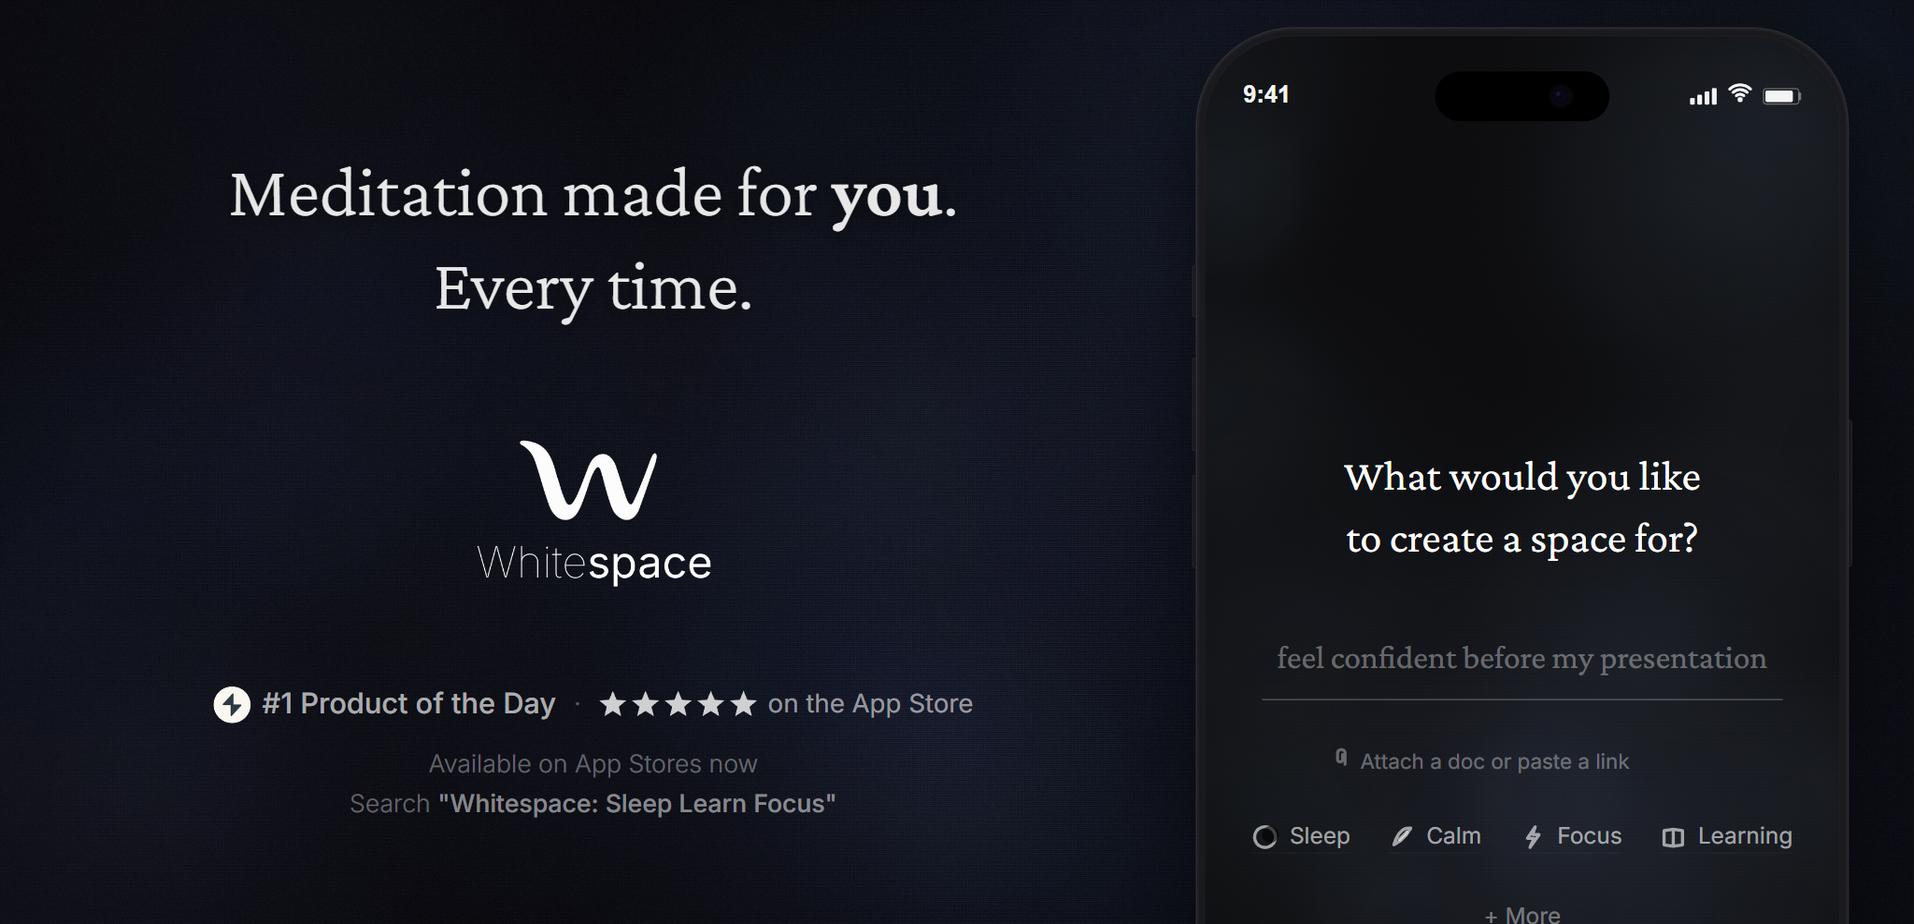
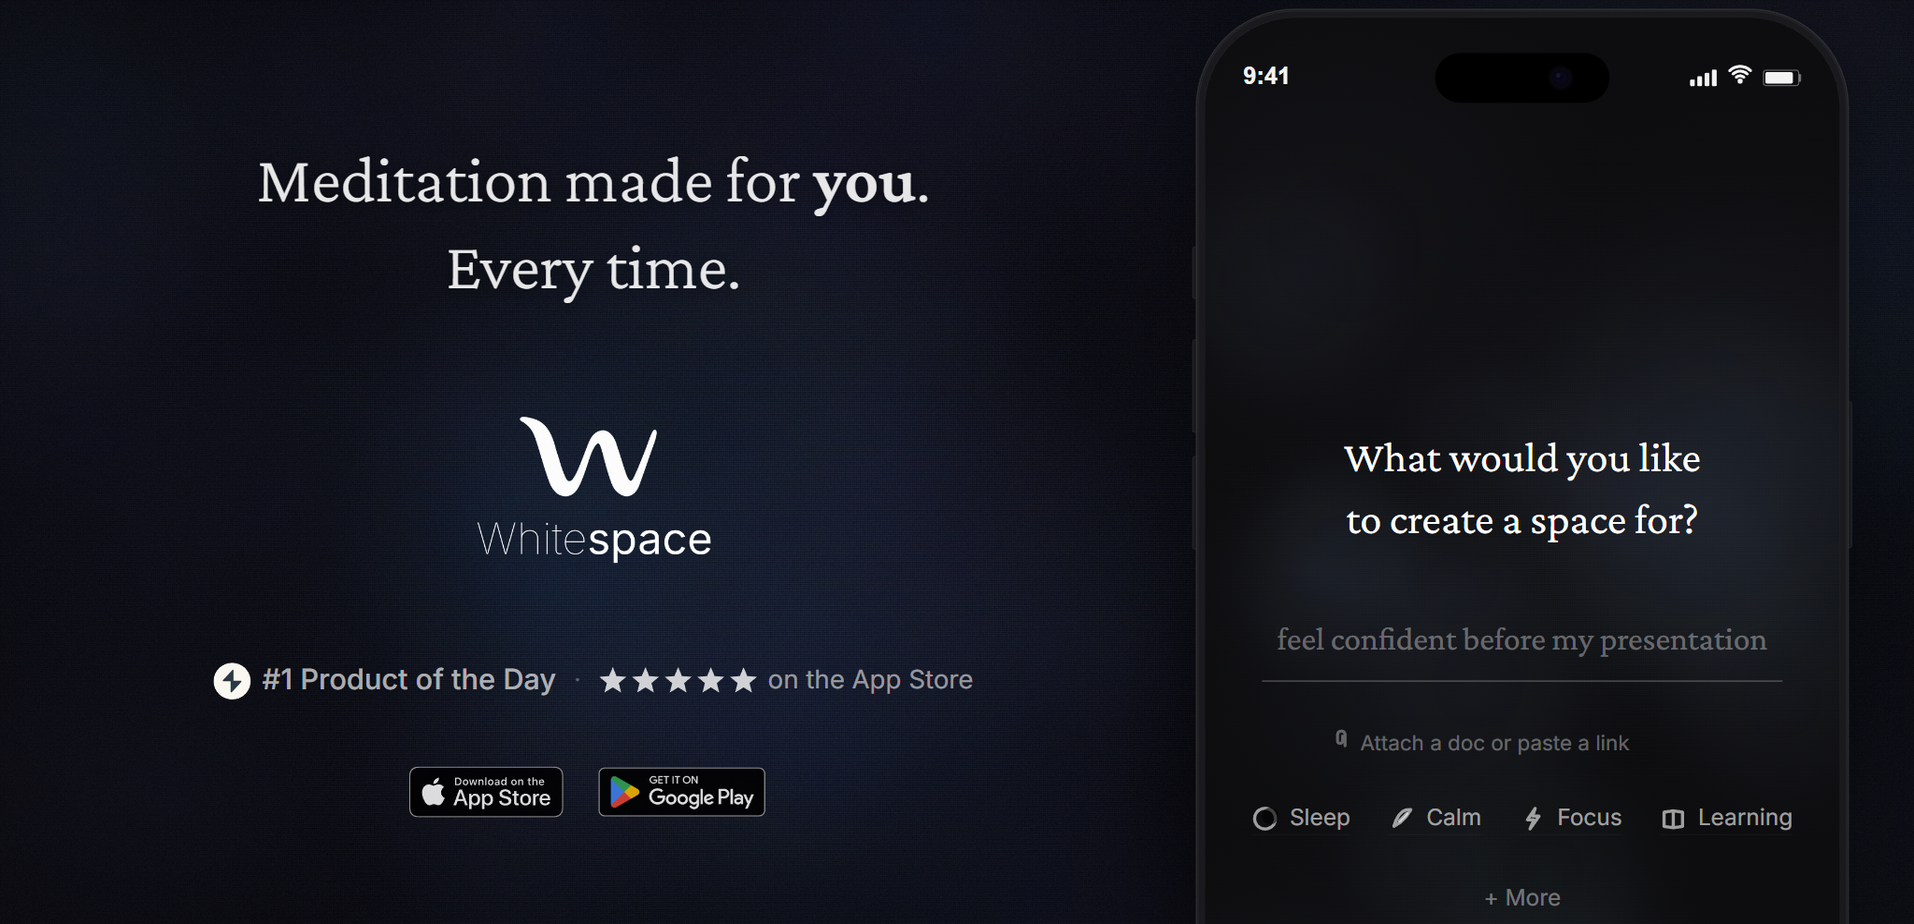
preview 2

diff --git a/screenshot-generator.html b/screenshot-generator.html
@@ -689,13 +689,13 @@
                     </div>
                     <div class="form-group">
                         <label for="feature-text-y">Text Y Position</label>
-                        <input type="range" id="feature-text-y" min="10" max="60" step="1" value="17">
-                        <div class="slider-labels"><span>Top</span><span id="feature-text-y-value">17%</span><span>Bottom</span></div>
+                        <input type="range" id="feature-text-y" min="10" max="60" step="1" value="16">
+                        <div class="slider-labels"><span>Top</span><span id="feature-text-y-value">16%</span><span>Bottom</span></div>
                     </div>
                     <div class="form-group">
                         <label for="feature-text-size">Text Size</label>
-                        <input type="range" id="feature-text-size" min="40" max="120" step="2" value="78">
-                        <div class="slider-labels"><span>Small</span><span id="feature-text-size-value">78px</span><span>Large</span></div>
+                        <input type="range" id="feature-text-size" min="40" max="120" step="2" value="72">
+                        <div class="slider-labels"><span>Small</span><span id="feature-text-size-value">72px</span><span>Large</span></div>
                     </div>
                     <div class="form-group">
                         <label for="feature-phone-x">Phone X Position</label>
@@ -704,8 +704,8 @@
                     </div>
                     <div class="form-group">
                         <label for="feature-phone-y">Phone Y Position</label>
-                        <input type="range" id="feature-phone-y" min="-20" max="40" step="1" value="3">
-                        <div class="slider-labels"><span>Up</span><span id="feature-phone-y-value">3%</span><span>Down</span></div>
+                        <input type="range" id="feature-phone-y" min="-20" max="40" step="1" value="1">
+                        <div class="slider-labels"><span>Up</span><span id="feature-phone-y-value">1%</span><span>Down</span></div>
                     </div>
                     <div class="form-group">
                         <label for="feature-phone-height">Phone Height</label>
@@ -1397,10 +1397,10 @@ for yourself to *focus*</textarea>
             splitPhoneAngle: 38, // rotation angle for split layouts
             // Feature graphic positioning
             featureTextX: 31,      // percentage from left
-            featureTextY: 17,      // percentage from top
-            featureTextSize: 78,   // font size in pixels
+            featureTextY: 16,      // percentage from top
+            featureTextSize: 72,   // font size in pixels
             featurePhoneX: 72,     // percentage from left
-            featurePhoneY: 3,      // percentage from top
+            featurePhoneY: 1,      // percentage from top
             featurePhoneHeight: 800, // phone height in pixels
             // Promo banner wide positioning (3:1 ratio)
             promoTextX: 20,        // percentage from left (more left for wider canvas)
@@ -1428,7 +1428,9 @@ for yourself to *focus*</textarea>
             badgeY: 85,   // percentage of canvas height
             badgeScale: 1.0,
             badgeGlow: 1.0, // 0 = off, 1 = default, 2 = strong
-            badgeLogo: null // Uneed logo image
+            badgeLogo: null, // Uneed logo image
+            appleBadge: null, // Apple App Store badge
+            googleBadge: null // Google Play badge
         };
 
         // Layout options matching App Store screenshot styles
@@ -4720,40 +4722,40 @@ for yourself to *focus*</textarea>
                     ctx.restore();
                 }
                 
-                // === "Available on App Stores now" text below badges ===
+                // === App Store badges below the reviews row ===
                 {
-                    const liveFontSize = state.width * 0.013;
-                    const lineGap = liveFontSize * 1.6;
-                    const liveY = logoBottomY + state.height * 0.035 + state.width * 0.015 * 1.8 + state.height * 0.03;
+                    // Position badges below the 5-star/POTD row with breathing room
+                    const badgeRowY = logoBottomY + state.height * 0.035 + state.width * 0.015 * 1.8 + state.height * 0.045;
+                    
+                    // Apple badge sizing (base reference)
+                    const appleBadgeHeight = state.height * 0.055;
+                    // Google badge is 1.44x taller to compensate for internal padding (matches landing page ratio)
+                    const googleBadgeHeight = appleBadgeHeight * 1.44;
+                    const badgeGap = state.width * 0.012;
                     
                     ctx.save();
-                    ctx.textBaseline = 'middle';
-                    ctx.textAlign = 'center';
+                    ctx.globalAlpha = 0.85;
                     
-                    // Line 1: "Available on App Stores now"
-                    ctx.font = `300 ${liveFontSize}px Inter, system-ui, sans-serif`;
-                    ctx.fillStyle = 'rgba(255, 255, 255, 0.35)';
-                    ctx.fillText('Available on App Stores now', logoCenterX, liveY);
-                    
-                    // Line 2: Search "Whitespace: Sleep Learn Focus"
-                    ctx.font = `300 ${liveFontSize}px Inter, system-ui, sans-serif`;
-                    const searchLabel = 'Search ';
-                    const appName = '"Whitespace: Sleep Learn Focus"';
-                    const searchWidth = ctx.measureText(searchLabel).width;
-                    ctx.font = `500 ${liveFontSize}px Inter, system-ui, sans-serif`;
-                    const appNameWidth = ctx.measureText(appName).width;
-                    const totalLine2 = searchWidth + appNameWidth;
-                    let x2 = logoCenterX - totalLine2 / 2;
-                    
-                    ctx.font = `300 ${liveFontSize}px Inter, system-ui, sans-serif`;
-                    ctx.fillStyle = 'rgba(255, 255, 255, 0.35)';
-                    ctx.textAlign = 'left';
-                    ctx.fillText(searchLabel, x2, liveY + lineGap);
-                    x2 += searchWidth;
-                    
-                    ctx.font = `500 ${liveFontSize}px Inter, system-ui, sans-serif`;
-                    ctx.fillStyle = 'rgba(255, 255, 255, 0.5)';
-                    ctx.fillText(appName, x2, liveY + lineGap);
+                    if (state.appleBadge && state.googleBadge) {
+                        // Calculate widths from aspect ratios
+                        const appleAR = state.appleBadge.width / state.appleBadge.height;
+                        const googleAR = state.googleBadge.width / state.googleBadge.height;
+                        const appleBadgeWidth = appleBadgeHeight * appleAR;
+                        const googleBadgeWidth = googleBadgeHeight * googleAR;
+                        
+                        const totalWidth = appleBadgeWidth + badgeGap + googleBadgeWidth;
+                        let bx = logoCenterX - totalWidth / 2;
+                        
+                        // Vertically align both badges by their visual centers
+                        // Google badge has internal padding so we align by center
+                        const maxH = Math.max(appleBadgeHeight, googleBadgeHeight);
+                        const appleBadgeY = badgeRowY + (maxH - appleBadgeHeight) / 2;
+                        const googleBadgeY = badgeRowY + (maxH - googleBadgeHeight) / 2;
+                        
+                        ctx.drawImage(state.appleBadge, bx, appleBadgeY, appleBadgeWidth, appleBadgeHeight);
+                        bx += appleBadgeWidth + badgeGap;
+                        ctx.drawImage(state.googleBadge, bx, googleBadgeY, googleBadgeWidth, googleBadgeHeight);
+                    }
                     
                     ctx.restore();
                 }
@@ -5338,8 +5340,10 @@ for yourself to *focus*</textarea>
                     document.getElementById('headline').value = 'Meditation made for *you*.\nEvery time.';
                     // Set default screen content to Create
                     state.screenType = 'create-input';
-                    document.getElementById('screen-type-1').value = 'create-input';
-                    document.getElementById('screen-type').value = 'create-input';
+                    const st1 = document.getElementById('screen-type-1');
+                    if (st1) st1.value = 'create-input';
+                    const st = document.getElementById('screen-type');
+                    if (st) st.value = 'create-input';
                     // Update size options UI
                     document.querySelectorAll('.size-option').forEach(opt => {
                         opt.classList.toggle('active', opt.dataset.width === '2048' && opt.dataset.height === '1000');
@@ -5976,6 +5980,22 @@ for yourself to *focus*</textarea>
             state.badgeLogo = uneedLogo;
         };
         uneedLogo.src = 'src/assets/uneed-logo.avif';
+
+        // Pre-load Apple App Store badge (local SVG)
+        const appleBadgeImg = new Image();
+        appleBadgeImg.onload = () => {
+            state.appleBadge = appleBadgeImg;
+            render();
+        };
+        appleBadgeImg.src = 'src/assets/en-us.svg';
+
+        // Pre-load Google Play badge (local copy)
+        const googleBadgeImg = new Image();
+        googleBadgeImg.onload = () => {
+            state.googleBadge = googleBadgeImg;
+            render();
+        };
+        googleBadgeImg.src = 'src/assets/google-play-badge.png';
 
         // Badge overlay controls
         document.getElementById('show-badge').addEventListener('change', (e) => {

diff --git a/index.html b/index.html
@@ -8,12 +8,12 @@
     <!-- Favicon -->
     <link rel="icon" type="image/png" href="/src/assets/favicon.png">
     
-    <title>Whitespace | 10x Your Inner Self</title>
+    <title>Whitespace | Meditation made for you. Every time.</title>
 
     <!-- Open Graph / Facebook / LinkedIn -->
     <meta property="og:type" content="website">
     <meta property="og:url" content="https://trywhitespace.com/">
-    <meta property="og:title" content="Whitespace | 10x Your Inner Self">
+    <meta property="og:title" content="Whitespace | Meditation made for you. Every time.">
     <meta property="og:description" content="Your edge, on-demand. Personalized meditation that aligns mind, body, and intention - clearing the noise so you can build what matters. For founders and high-performers.">
     <meta property="og:image" content="https://trywhitespace.com/src/assets/og-feature.png">
     <meta property="og:image:width" content="1914">
@@ -24,7 +24,7 @@
     <!-- Twitter / X -->
     <meta name="twitter:card" content="summary_large_image">
     <meta name="twitter:url" content="https://trywhitespace.com/">
-    <meta name="twitter:title" content="Whitespace | 10x Your Inner Self">
+    <meta name="twitter:title" content="Whitespace | Meditation made for you. Every time.">
     <meta name="twitter:description" content="Your edge, on-demand. Personalized meditation that aligns mind, body, and intention - clearing the noise so you can build what matters. For founders and high-performers.">
     <meta name="twitter:image" content="https://trywhitespace.com/src/assets/twitter-feature.png">
     <link rel="preconnect" href="https://fonts.googleapis.com">
